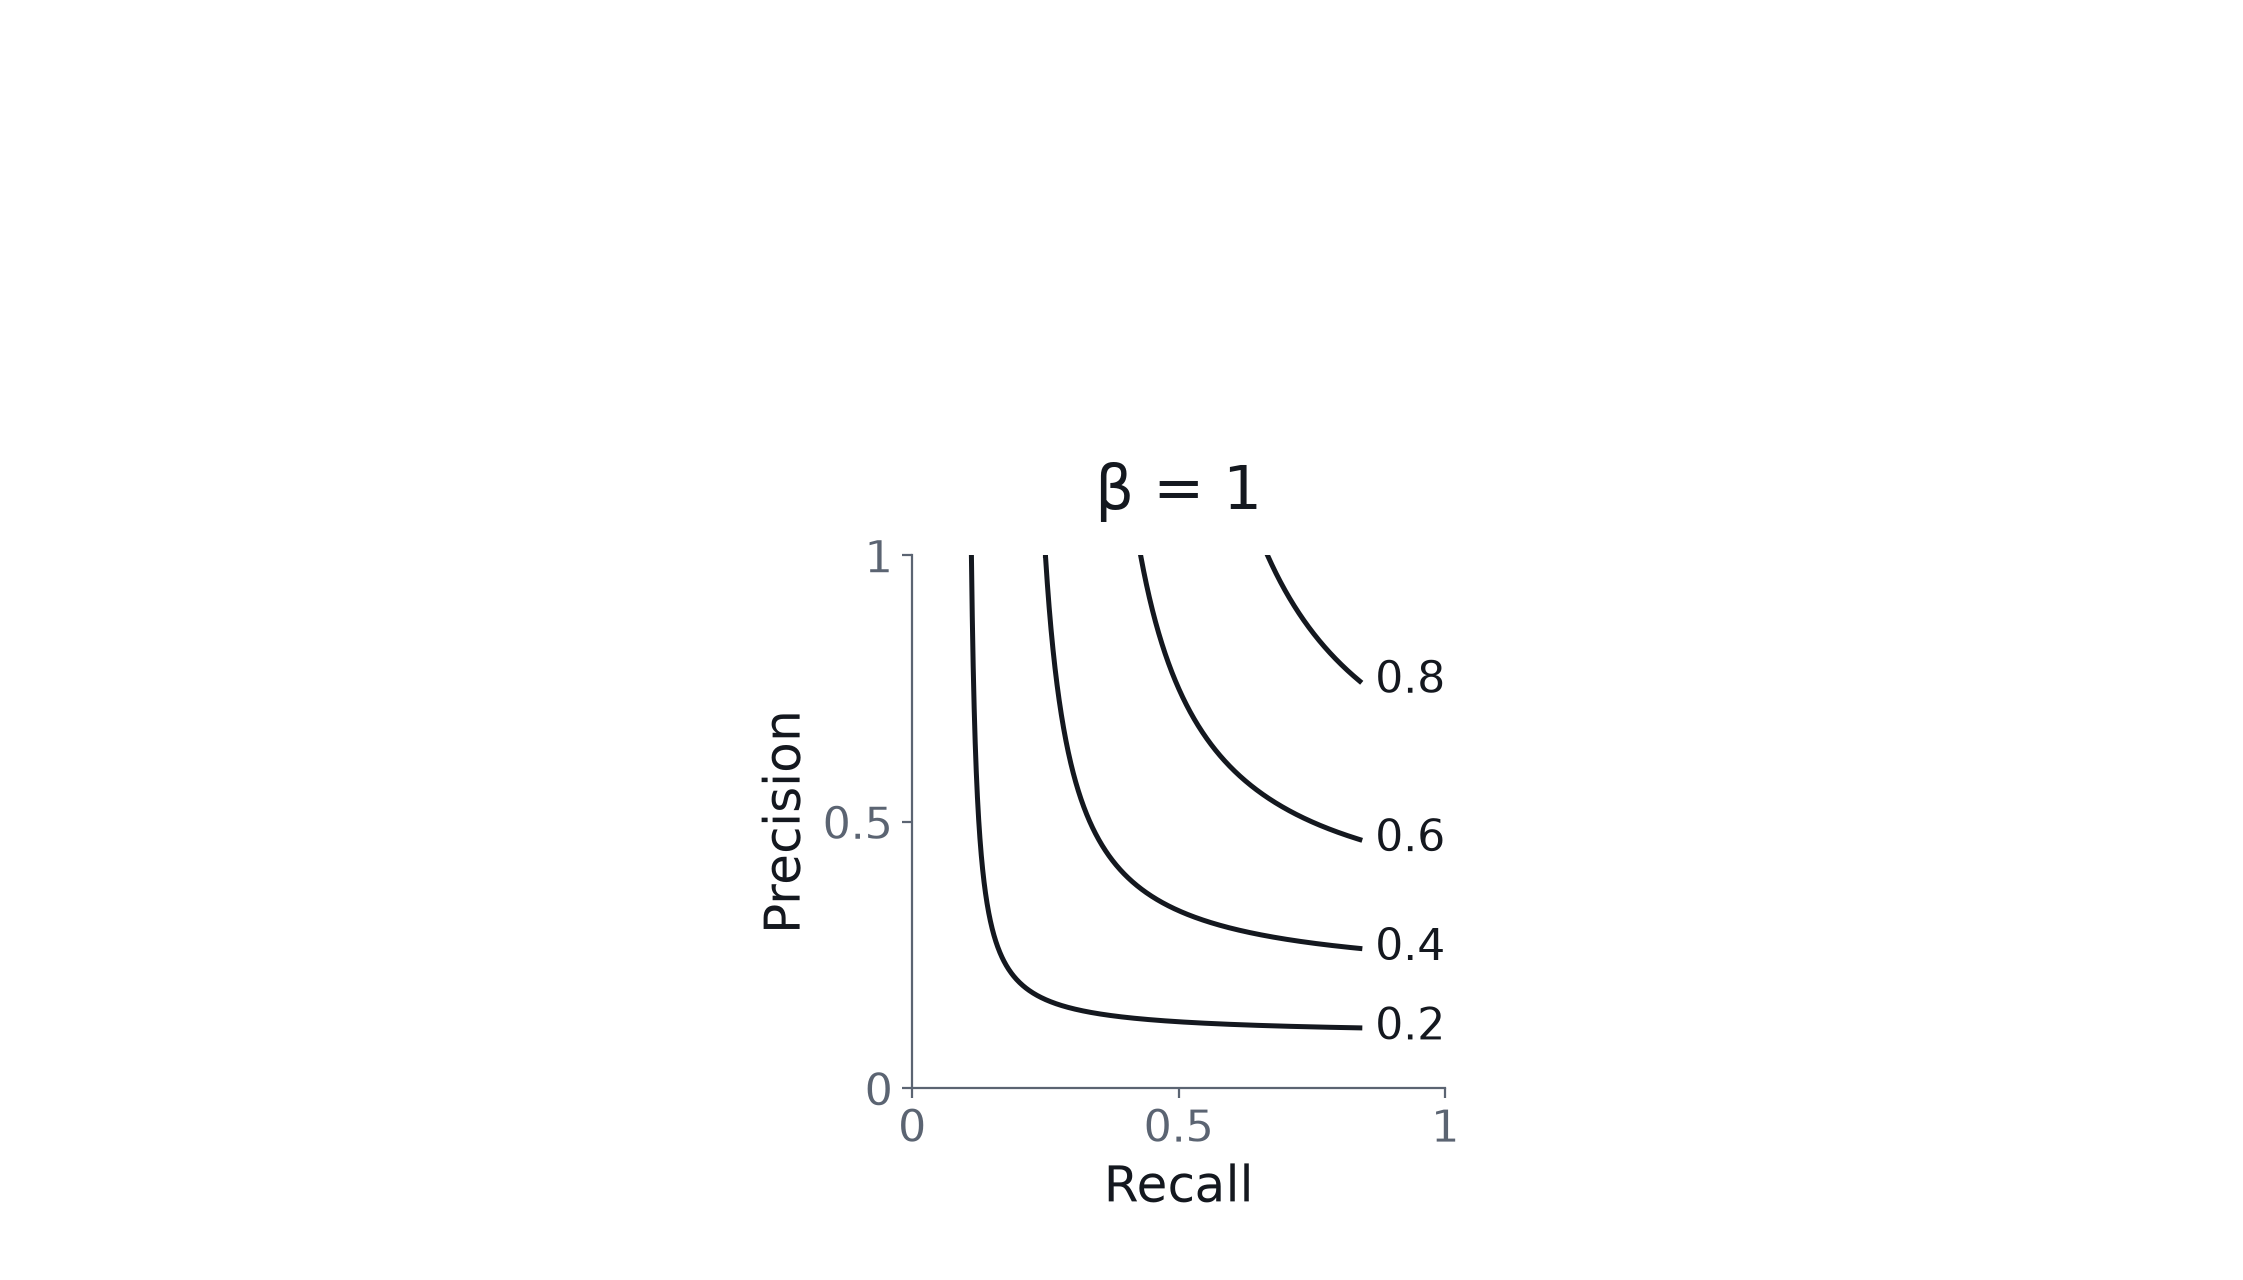
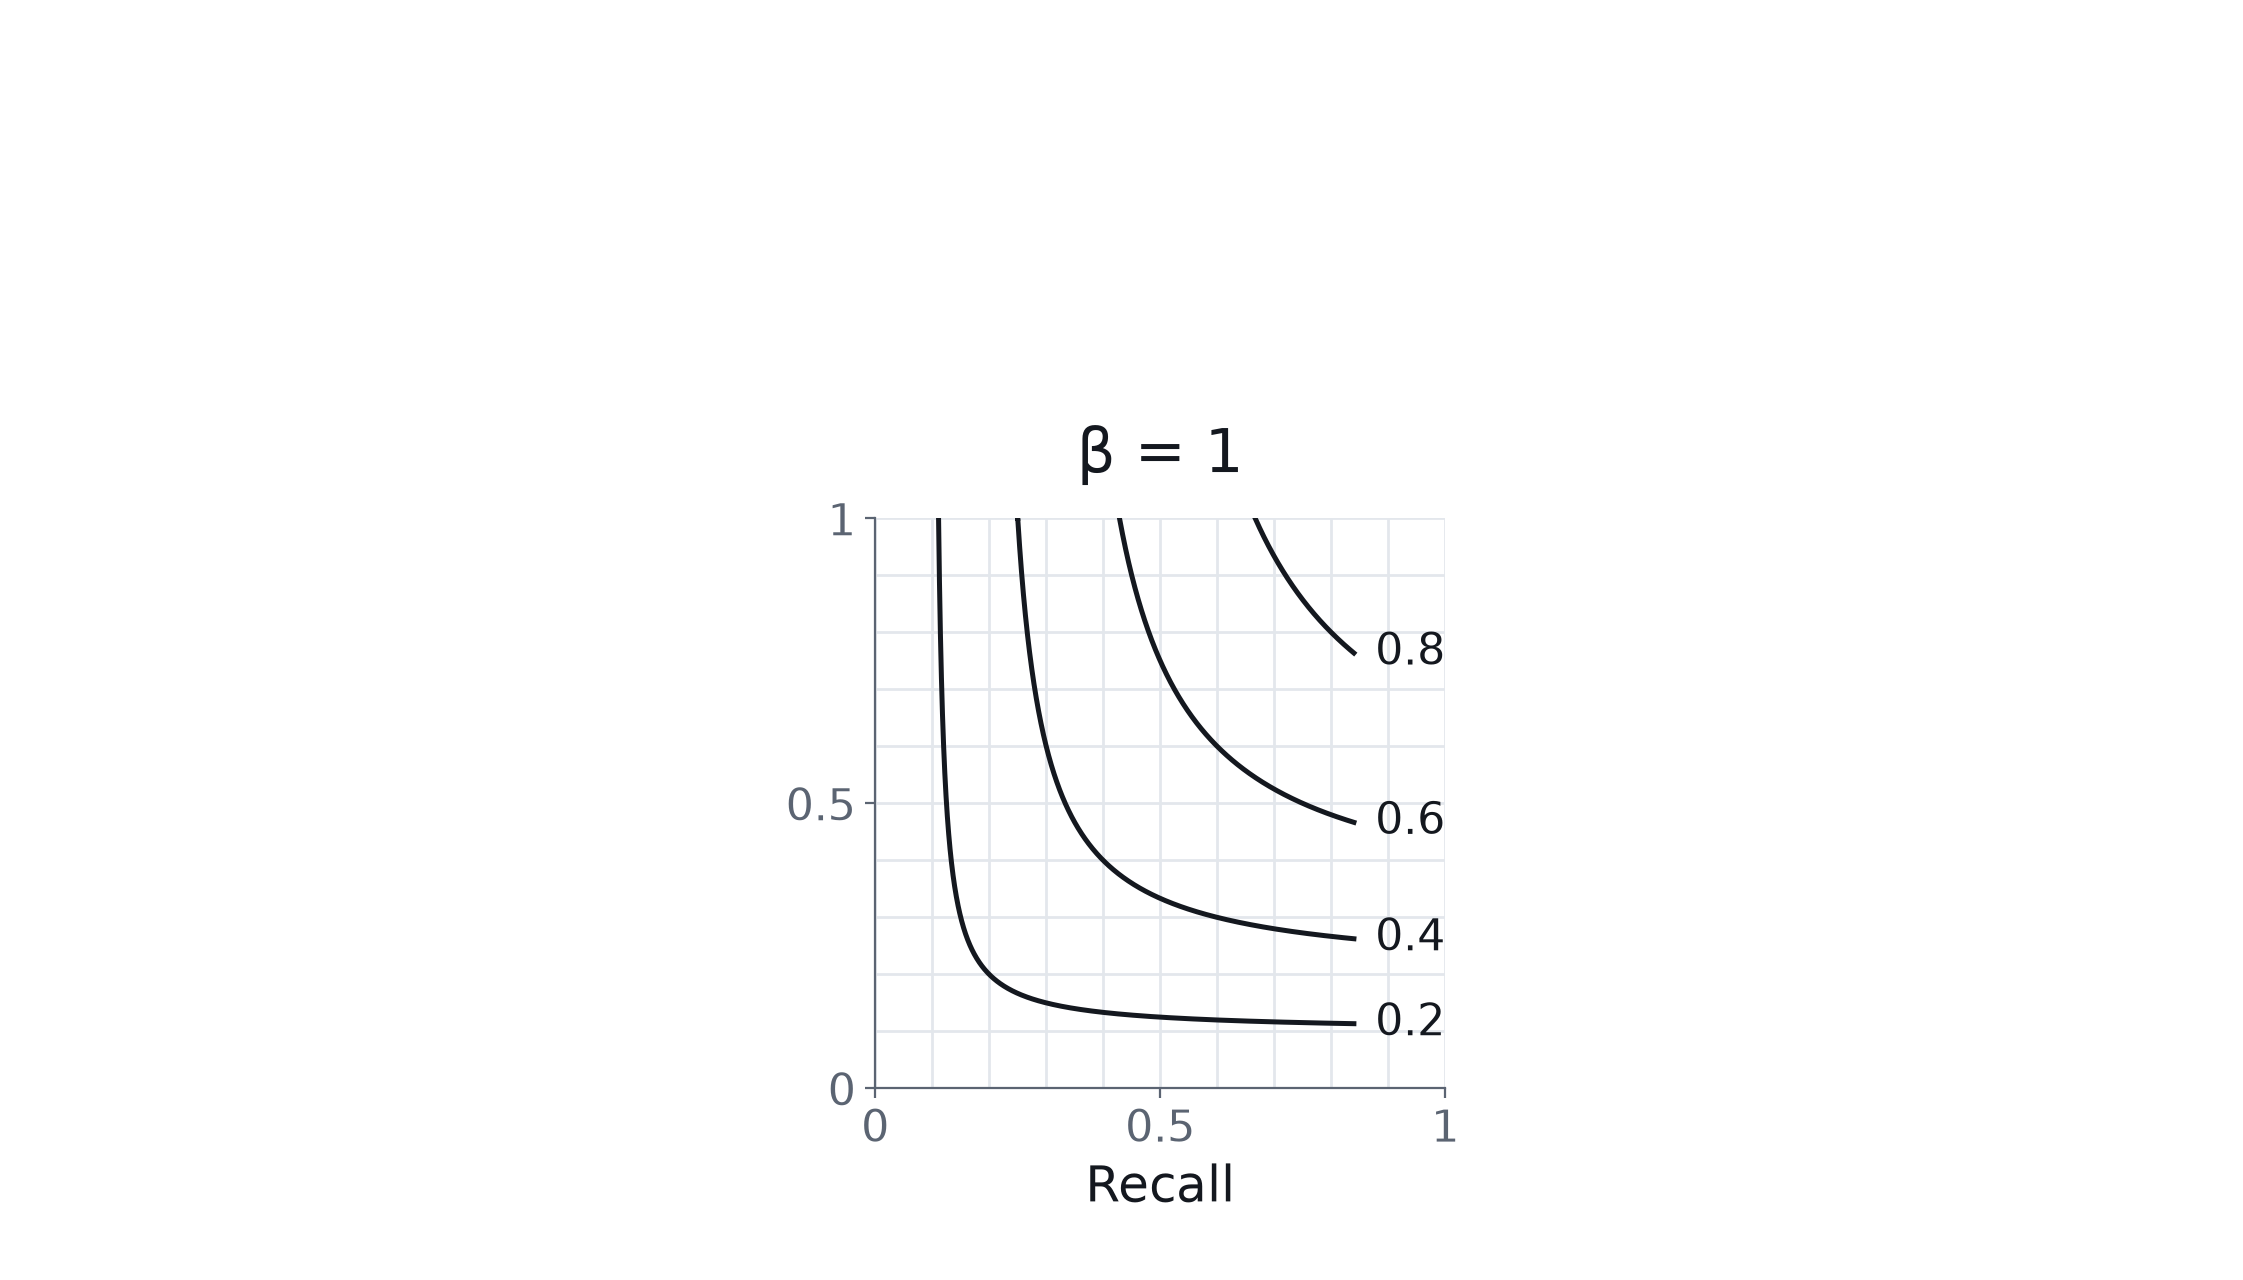
#4519: Beta Release: one Precision label, and the deck's faint P-R grid
The owner (2026-10-05): don't label the same y-axis over and over; numbers
on every map, the word "Precision" only on the leftmost. And draw the faint
grid lines the precision-recall charts after it carry: a line every 0.1 in
make-sota-figs' GRID_COLOUR, behind the curves. With one label the gaps
narrow back and the maps grow (5.05 -> 5.4 canvas units).

Claude-Session: https://claude.ai/code/session_01RYAFvig7c64CtSQuHpMxrk

Changed region(s): [[0.3433, 0.3438, 0.6554, 0.8125], [0.4681, 0.8438, 0.5617, 0.9375], [0.3745, 0.8438, 0.4057, 0.9062]]

diff --git a/slides/figs/src/make-calib-figs.py b/slides/figs/src/make-calib-figs.py
@@ -4385,16 +4385,20 @@ FMETRICS_INDENT = 0.16
 #: just defined; then β = ¼'s; then β = 4's (`FBETA_REVEAL`'s order).
 FBETA_MAPS_STAGES = 3
 #: The three maps' squares, in canvas units: the side, the gap between maps,
-#: and the first map's left edge. Each map carries its own precision axis, so
-#: a gap holds one ("Precision" and its ticks) clear of the numbers ending the
-#: curves to its left. The row is as wide as the slide allows, short of the
-#: page number's corner; the maps' tops then sit under the title's notch.
-FBETA_MAP_SIDE = 5.05
-FBETA_MAP_GAP = 1.9
+#: and the first map's left edge (room for the row's one "Precision"). A gap
+#: holds the next map's tick numbers clear of the numbers ending the curves to
+#: its left. The row is as wide as the slide allows, short of the page
+#: number's corner; the maps' tops then sit under the title's notch.
+FBETA_MAP_SIDE = 5.4
+FBETA_MAP_GAP = 1.2
 FBETA_MAP_X = 1.3
 FBETA_MAP_Y = 1.55
 #: F-beta's level curves on a map: one every 0.2.
 FBETA_LEVELS = (0.2, 0.4, 0.6, 0.8)
+#: The precision-recall grid: a line every 0.1 in `make-sota-figs`'s
+#: `GRID_COLOUR`, so the maps read like the charts that follow them.
+PR_GRID_STEP = 0.1
+PR_GRID_COLOUR = "#e3e7ec"
 #: The room a level's number takes at the map's edge, in the map's own units
 #: ``(across, up)``: a 16pt "0.8" on a `FBETA_MAP_SIDE` square and a little
 #: air. The curve stops there and its number fills the rest.
@@ -4435,10 +4439,11 @@ def _fbeta_maps_stage(stage: int) -> plt.Figure:
             continue
         x = FBETA_MAP_X + arm * (FBETA_MAP_SIDE + FBETA_MAP_GAP)
         pr = fig.add_axes(_canvas_box((x, FBETA_MAP_Y, FBETA_MAP_SIDE)))
-        # Every map has its own axes, though the three share them: β = 1's
-        # map shows first, alone, and a reveal adds ink without restyling, so
-        # it cannot borrow a precision axis from the map left of it.
-        _pr_plane(pr)
+        # Every map has its own numbers, and the row one "Precision", on the
+        # leftmost (owner, 2026-10-05): one axis, not the same label three
+        # times. β = 1's map, shown first and alone, goes without the word
+        # until β = ¼'s arrives beside it.
+        _pr_plane(pr, precision_label=arm == 0)
         _fbeta_contours(pr, beta)
         ax.text(
             x + FBETA_MAP_SIDE / 2,
@@ -4458,8 +4463,13 @@ def _canvas_box(box: tuple[float, float, float]) -> list[float]:
     return [x / FBETA_CANVAS[0], y / FBETA_CANVAS[1], side / FBETA_CANVAS[0], side / FBETA_CANVAS[1]]
 
 
-def _pr_plane(ax: plt.Axes) -> None:
-    """The square recall-by-precision plane, 0 to 1 on both, in the deck's axis style."""
+def _pr_plane(ax: plt.Axes, precision_label: bool = True) -> None:
+    """The square recall-by-precision plane, 0 to 1 on both, in the deck's axis style.
+
+    Gridded like the precision-recall charts later in the deck (Photo Finish
+    and the document slides, `make-sota-figs._pr_axes`): a faint line every
+    0.1, behind everything, in their colour.
+    """
     ax.set_xlim(0, 1)
     ax.set_ylim(0, 1)
     ax.set_aspect("equal")
@@ -4468,7 +4478,14 @@ def _pr_plane(ax: plt.Axes) -> None:
     ax.set_xticklabels(["0", "0.5", "1"], fontsize=16, color=SOFT)
     ax.set_yticklabels(["0", "0.5", "1"], fontsize=16, color=SOFT)
     ax.set_xlabel("Recall", fontsize=18, color=INK)
-    ax.set_ylabel("Precision", fontsize=18, color=INK)
+    if precision_label:
+        ax.set_ylabel("Precision", fontsize=18, color=INK)
+    lines = np.arange(0, 1 + PR_GRID_STEP / 2, PR_GRID_STEP)
+    ax.set_xticks(lines, minor=True)
+    ax.set_yticks(lines, minor=True)
+    ax.tick_params(which="minor", length=0)
+    ax.grid(True, which="both", color=PR_GRID_COLOUR, linewidth=1.0)
+    ax.set_axisbelow(True)
     for side in ("top", "right"):
         ax.spines[side].set_visible(False)
     for side in ("left", "bottom"):
